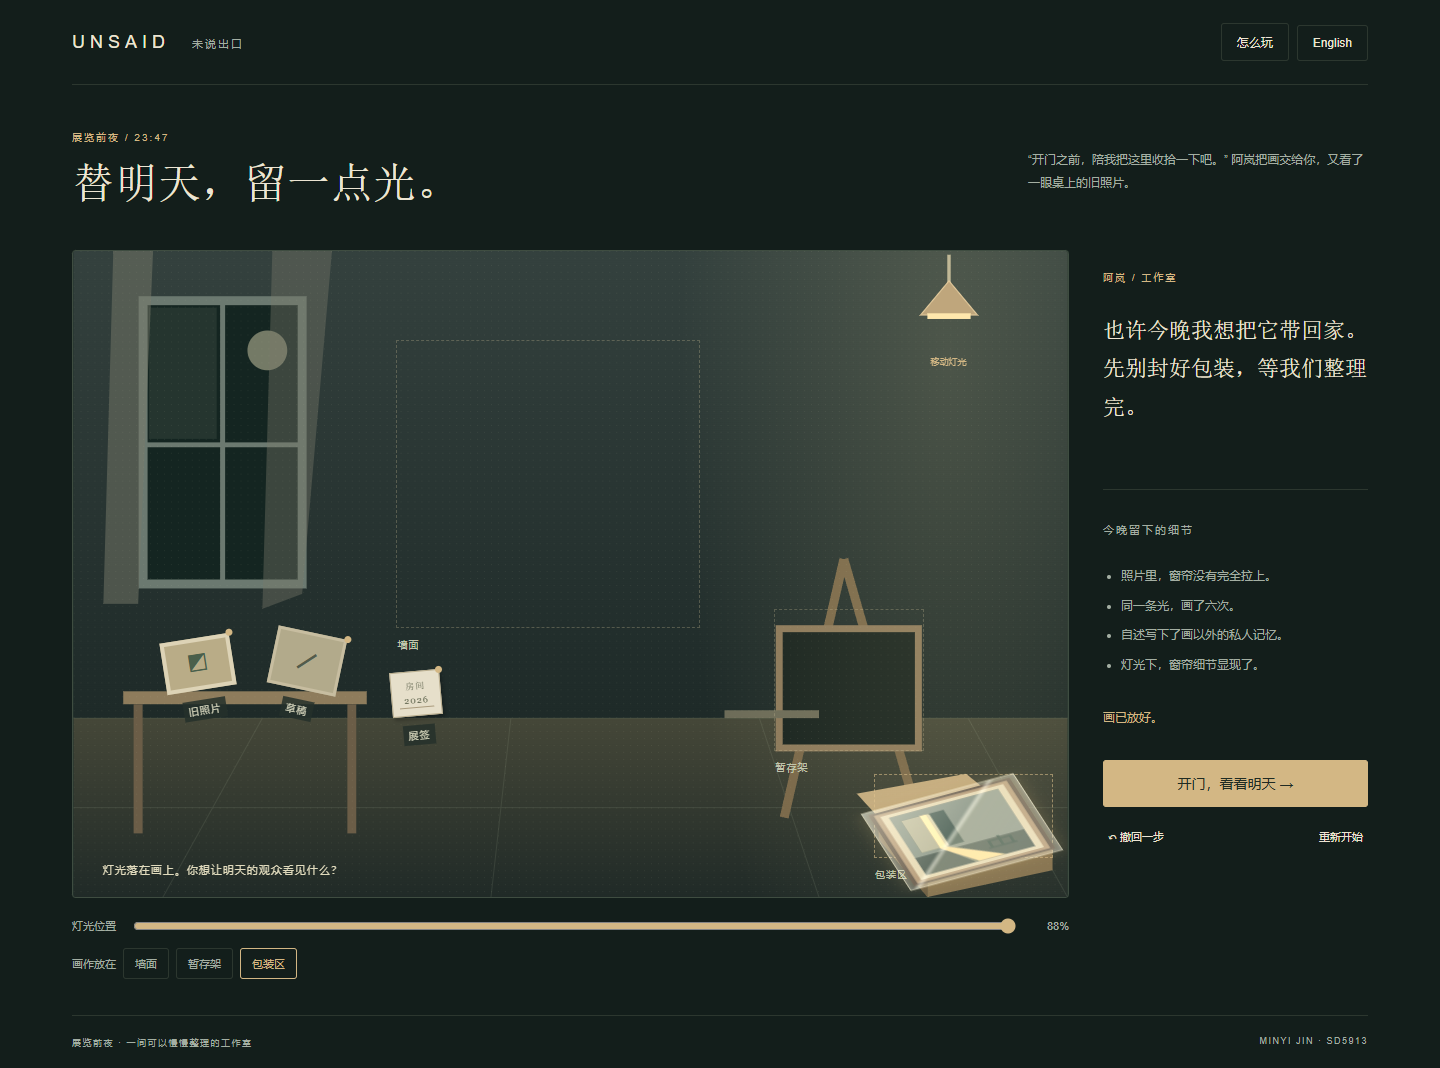
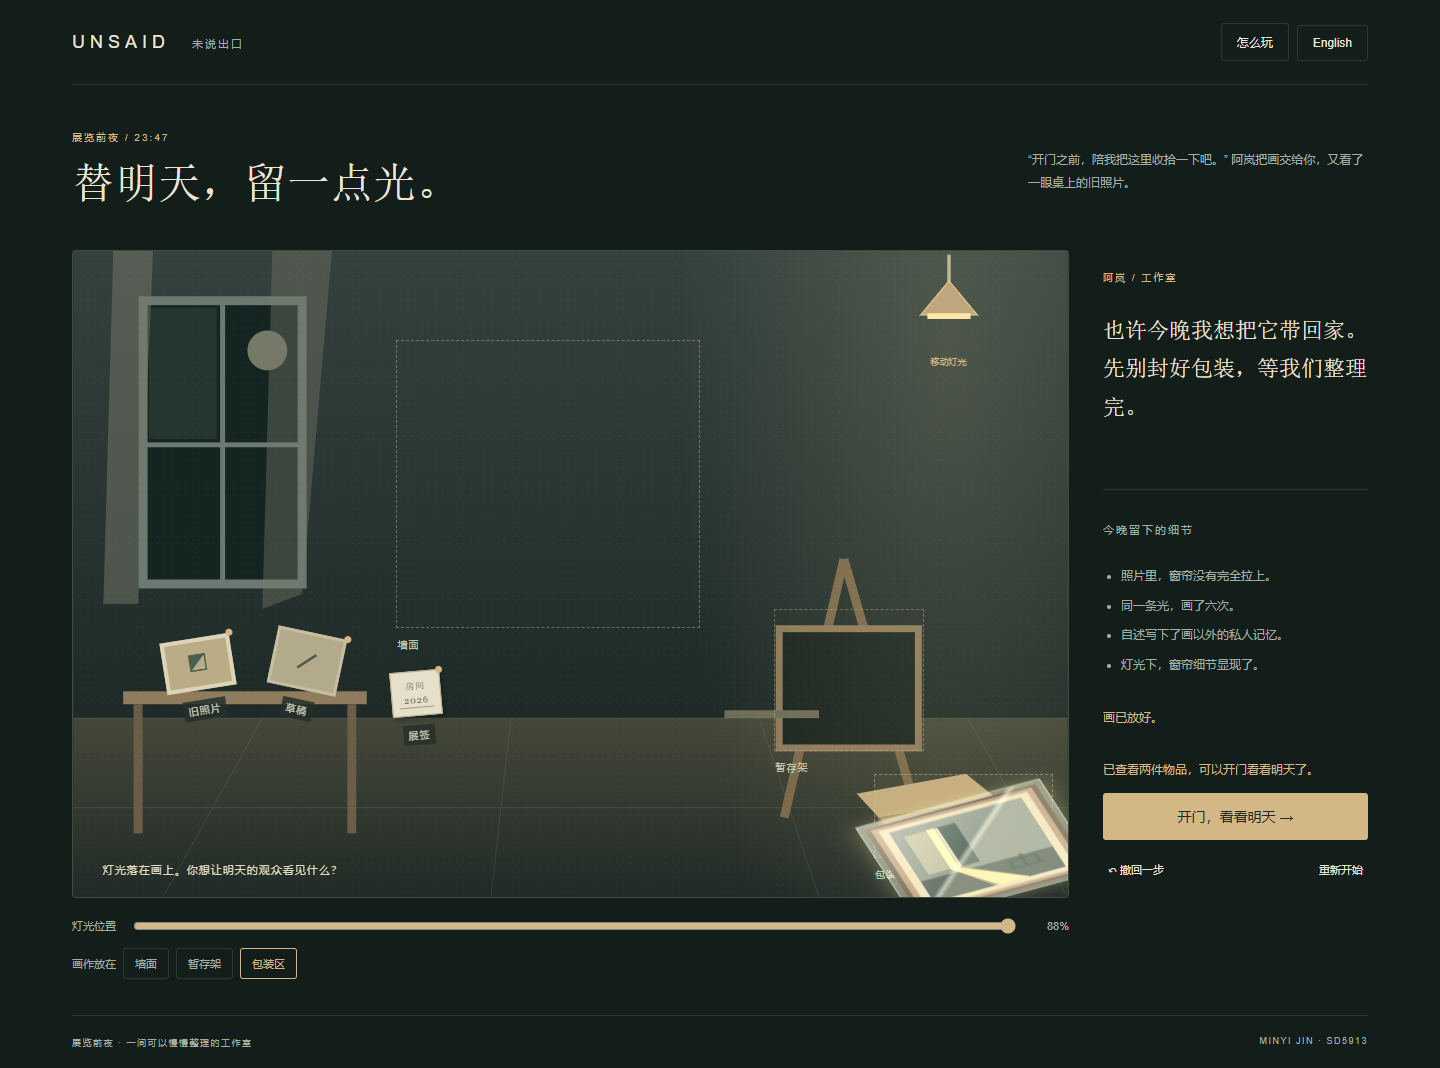
introduce the studio with a guide and visible exploration progress

Changed region(s): [[0.5938, 0.7107, 0.9688, 0.8652]]

diff --git a/app.js b/app.js
@@ -60,7 +60,7 @@ document.querySelectorAll('[data-place]').forEach(b=>b.onclick=()=>setPlace(b.da
 $('language').onclick=()=>{lang=1-lang;status='';render();};$('help').onclick=()=>$('help-dialog').showModal();$('close-help').onclick=$('help-ok').onclick=()=>$('help-dialog').close();$('undo').onclick=()=>{if(!history.length)return;const old=history.pop();state=old.state;voice=old.voice;status=T('Previous arrangement restored.','已恢复上一步的布置。');render();};
 $('restart').onclick=()=>$('reset-dialog').showModal();$('cancel-reset').onclick=()=>$('reset-dialog').close();$('confirm-reset').onclick=()=>{state=initial();history=[];voice='welcome';status=T('The evening begins again.','又回到了展览前夜。');$('reset-dialog').close();render();};
 let sliderStart=null;$('light').addEventListener('input',()=>{if(!sliderStart)sliderStart=snapshot();state.light=Number($('light').value);detectLight();render();});$('light').addEventListener('change',()=>{if(sliderStart){history.push(sliderStart);sliderStart=null;}render();});
-$('finish').onclick=()=>{if($('ending').open)return;renderEnding();$('ending').showModal();};$('continue').onclick=()=>$('ending').close();
+$('finish').onclick=()=>{if($('ending').open)return;if(state.seen.length<2){const remaining=2-state.seen.length;status=T(`Inspect ${remaining} more different object${remaining===1?'':'s'}: photograph, studies or label. Then you can open the doors.`,`再查看 ${remaining} 件不同物品（旧照片、草稿或展签），就可以开门了。`);render();return;}renderEnding();$('ending').showModal();};$('continue').onclick=()=>$('ending').close();
 function beginDrag(e,kind){if(e.button!==0)return;drag={kind,id:e.pointerId,startX:e.clientX,startY:e.clientY,moved:false,before:snapshot(),rect:$('studio').getBoundingClientRect()};e.currentTarget.setPointerCapture(e.pointerId);if(kind==='painting')$('studio').classList.add('dragging-room');}
 function moveDrag(e){if(!drag||e.pointerId!==drag.id)return;if(Math.hypot(e.clientX-drag.startX,e.clientY-drag.startY)>5)drag.moved=true;if(!drag.moved)return;const x=(e.clientX-drag.rect.left)/drag.rect.width*100,y=(e.clientY-drag.rect.top)/drag.rect.height*100;if(drag.kind==='lamp'){state.light=Math.max(12,Math.min(88,x));detectLight();render();}else{$('painting').classList.add('dragging');Object.assign($('painting').style,{left:Math.max(0,Math.min(80,x-10))+'%',top:Math.max(0,Math.min(70,y-12))+'%',width:'20%'});}}
 function endDrag(e,cancel=false){if(!drag||e.pointerId!==drag.id)return;const d=drag;drag=null;$('studio').classList.remove('dragging-room');$('painting').classList.remove('dragging');if(cancel){state=d.before.state;voice=d.before.voice;status=T('Movement cancelled; the previous position was restored.','移动已取消，恢复原来的位置。');render();return;}if(d.kind==='lamp'){if(d.moved)history.push(d.before);render();return;}if(!d.moved){const places=['wall','rack','pack'];setPlace(places[(places.indexOf(state.place)+1)%3]);return;}const x=(e.clientX-d.rect.left)/d.rect.width*100,y=(e.clientY-d.rect.top)/d.rect.height*100;const target=x>=32&&x<=64&&y>=12&&y<=60?'wall':x>=69&&x<=86&&y>=53&&y<=80?'rack':x>=79&&x<=100&&y>=79&&y<=100?'pack':null;if(target){history.push(d.before);state.place=target;voice=target;status=T('Painting placed.','画已放好。');detectLight();}else status=T('Place it inside a marked area. The painting returned safely.','请放到标记区域内，画已回到原处。');render();}
@@ -69,8 +69,13 @@ $('painting').addEventListener('click',e=>{if(e.detail===0){const places=['wall'
 // Additional scene feedback and the final visitor view use the same live arrangement.
 function render(){
  renderBase();
- $('help-copy').textContent=T('Move the lamp over the painting on the wall, rack or packing table. A warm highlight appears when it catches the light.\n\nPick up the photograph and studies; turn them over to find their notes. Open the exhibition label to choose whether visitors will read the private statement.\n\nDrag the painting into a marked area, or use the position buttons. In the packing area it lies under translucent protective paper; move it elsewhere to unpack it. Use Tab and Enter for buttons, arrow keys for the light slider.\n\nOpen the doors whenever you are ready to see your exhibition. You can return to rearrange it or begin again.','把灯移到画的上方：墙面、暂存架和包装区都能照亮，光落到画上时会出现暖色细节。\n\n拿起照片和草稿，翻面查看批注。打开展签，决定观众是否会读到私人自述。\n\n拖动画作到标记区域，或使用位置按钮。画放进包装区时会斜放在保护纸下，移回其他位置即可拆开。按钮支持 Tab / Enter，灯光滑块支持方向键。\n\n准备好就可以开门看看明天，没有查看数量要求。结局后可以回来重新布置，也可以从头再玩。');
+ $('help-copy').textContent=T('Help Alex arrange the studio before the exhibition opens.\n\n1. Look closely: click at least TWO different objects — photograph, studies or label. You can turn each over.\n\n2. Find the light: drag the lamp or use its slider to illuminate the painting in any of its three positions.\n\n3. Arrange the exhibition: drag the painting to the wall, rack or packing area, or use the position buttons. Open the label to keep the private statement on display or set it aside.\n\n4. Open the doors: after inspecting two objects, see the morning scene your arrangement creates. Return to rearrange it or start again.\n\nUndo is available. Buttons support Tab and Enter; the slider supports arrow keys. You can reopen this guide with “How to play”.','展览就要开幕，陪阿岚一起把工作室整理好。\n\n1. 先看看：点击旧照片、草稿、展签中的至少两件不同物品。拿起后还可以翻面。\n\n2. 找到光：拖动灯，或使用灯光滑块。画放在三个位置都可以被照亮。\n\n3. 布置房间：拖动画作到墙面、暂存架或包装区，也可以用位置按钮。打开展签，选择保留还是收起私人自述。\n\n4. 开门看明天：查看两件物品后，开门进入与你的布置对应的结局。可以回来调整，也可以从头再玩。\n\n随时可以撤回。按钮支持 Tab / Enter，滑块支持方向键；右上角“怎么玩”可以再次打开这份引导。');
  $('finish').textContent=T('Open the doors →','开门，看看明天 →');
+ const inspected=Math.min(state.seen.length,2);
+ $('readiness').textContent=inspected<2?T(`Before opening: inspect two different objects (${inspected}/2).`,`开门前，先查看两件不同物品（${inspected}/2）。`):T('Two objects inspected. Your exhibition is ready to open.','已查看两件物品，可以开门看看明天了。');
+ $('finish').setAttribute('aria-disabled',String(inspected<2));
+ $('help-language').textContent=T('中文','English');
+ $('help-ok').textContent=T('Start exploring','开始整理');
  document.querySelector('.mini-label').textContent=T('ROOM\n2026','房间\n2026');
  document.querySelector('.label').setAttribute('title',state.label?T('Visitors will read Alex’s personal statement.','观众会读到阿岚的私人自述。'):T('The statement is set aside; visitors will see the artwork alone.','私人自述已收起，观众只看作品。'));
  if(currentObject==='label')$('object-copy').textContent+=(state.label?T('\n\nDISPLAYED: visitors can read this personal history beside the painting.','\n\n当前：公开。观众会在画旁读到这段私人经历。'):T('\n\nSET ASIDE: visitors will see the painting without the personal statement.','\n\n当前：收起。观众只会看见画，不会读到这段私人经历。'));
@@ -96,3 +101,5 @@ renderEnding=function(){
 };
 $('play-again').onclick=()=>{$('ending').close();state=initial();history=[];voice='welcome';status='';render();};
 render();
+$('help-language').onclick=()=>{lang=1-lang;status='';render();};
+$('help-dialog').showModal();

diff --git a/index.html b/index.html
@@ -1,5 +1,5 @@
 <!doctype html>
-<html lang="zh-CN"><head><meta charset="utf-8"><meta name="viewport" content="width=device-width,initial-scale=1"><title>Unsaid · 未说出口</title><link rel="stylesheet" href="style.css?v=20261025b"></head><body>
+<html lang="zh-CN"><head><meta charset="utf-8"><meta name="viewport" content="width=device-width,initial-scale=1"><title>Unsaid · 未说出口</title><link rel="stylesheet" href="style.css?v=20261025c"></head><body>
 <header><a href="./">UNSAID <span>未说出口</span></a><div><button id="help">怎么玩</button><button id="language">English</button></div></header>
 <main><div class="heading"><div><p class="eyebrow" id="chapter"></p><h1 id="title"></h1></div><p id="intro"></p></div>
 <div class="layout"><section class="stage-column"><div id="studio" aria-label="Interactive studio">
@@ -18,10 +18,10 @@
 <div class="stage-caption" id="stage-caption"></div></div>
 <div class="light-control"><label for="light" id="light-label"></label><input id="light" type="range" min="12" max="88" value="30"><span id="light-value"></span></div>
 <div class="placement"><span id="placement-label"></span><button data-place="wall" class="place-option"></button><button data-place="rack" class="place-option"></button><button data-place="pack" class="place-option"></button></div></section>
-<aside><p class="eyebrow" id="voice-label"></p><p id="voice" aria-live="polite"></p><div class="divider"></div><h2 id="notes-title"></h2><ul id="notes"></ul><p id="status" role="status"></p><button id="finish" class="primary"></button><div class="small-actions"><button id="undo"></button><button id="restart"></button></div></aside></div>
+<aside><p class="eyebrow" id="voice-label"></p><p id="voice" aria-live="polite"></p><div class="divider"></div><h2 id="notes-title"></h2><ul id="notes"></ul><p id="status" role="status"></p><p id="readiness" aria-live="polite"></p><button id="finish" class="primary" aria-describedby="readiness"></button><div class="small-actions"><button id="undo"></button><button id="restart"></button></div></aside></div>
 <footer><span id="footer-note"></span><span>MINYI JIN · SD5913</span></footer></main>
 <dialog id="inspect"><button class="close" id="close-inspect" aria-label="Close">×</button><p class="eyebrow" id="object-number"></p><div id="object-art"></div><h2 id="object-title"></h2><p id="object-copy"></p><div class="dialog-actions"><button id="flip"></button><button id="label-toggle" hidden></button><button id="put-back" class="primary"></button></div></dialog>
 <dialog id="ending"><p class="eyebrow" id="ending-eyebrow"></p><h2 id="ending-title"></h2><div id="final-scene" aria-label="Final exhibition"></div><p id="ending-copy"></p><p id="visitor-response"></p><div id="ending-summary"></div><div class="dialog-actions"><button id="continue"></button><button id="play-again" class="primary"></button></div></dialog>
-<dialog id="help-dialog"><button class="close" id="close-help" aria-label="Close">×</button><h2 id="help-title"></h2><p id="help-copy"></p><button id="help-ok" class="primary"></button></dialog>
+<dialog id="help-dialog" aria-labelledby="help-title"><button class="close" id="close-help" aria-label="Close">×</button><h2 id="help-title"></h2><p id="help-copy"></p><div class="dialog-actions"><button id="help-ok" class="primary" autofocus></button><button id="help-language"></button></div></dialog>
 <dialog id="reset-dialog"><h2 id="reset-title"></h2><p id="reset-copy"></p><div class="dialog-actions"><button id="cancel-reset"></button><button id="confirm-reset" class="primary"></button></div></dialog>
-<script src="app.js?v=20261025b"></script></body></html>
+<script src="app.js?v=20261025c"></script></body></html>

diff --git a/style.css b/style.css
@@ -10,3 +10,4 @@
 #painting[data-location=pack].illuminated{filter:drop-shadow(0 0 9px #f8d58d80) brightness(1.12)}
 #painting.dragging{transform:none!important}#painting.dragging::after{display:none}
 .final-painting .final-wrap{position:absolute;inset:-4%;width:auto;height:auto;transform:none;background:linear-gradient(90deg,transparent 43%,#c4ac7ca8 43%,#c4ac7ca8 57%,transparent 57%);border:0;z-index:3}
+#readiness{font-size:12px;line-height:1.7;color:var(--gold);margin:0 0 12px}.primary[aria-disabled=true]{background:#89917b;color:#18241d;border-color:#89917b}#help-dialog{max-height:92dvh}#help-copy{font-size:13px;line-height:1.7}

diff --git a/README.md b/README.md
@@ -22,11 +22,11 @@ The first version used branching dialogue. Following the author's feedback that 
 - Pick up the photograph, study sheet and exhibition label. Turn each over to read the reverse.
 - Drag the painting to the wall, holding rack or packing area. The visible placement, selected control and character response change together. Position buttons below the scene offer the same action; clicking the painting cycles through positions.
 - Take the statement off the wall or put it back. Its location in the room changes.
-- Open the doors whenever you are ready; no minimum object count is required. An illustrated morning epilogue reflects your actual arrangement: sharing the statement, exhibiting the painting alone, leaving it on the rack, or taking it home. Each has distinct closing text. Revise the exhibition or begin a new evening using separate buttons.
+- A bilingual guide opens when the page loads and can be reopened with “How to play”. Inspect at least two different objects before opening the doors; a visible counter shows progress. An illustrated morning epilogue reflects your actual arrangement: sharing the statement, exhibiting the painting alone, leaving it on the rack, or taking it home. Each has distinct closing text. Revise the exhibition or begin a new evening using separate buttons.
 - In the packing area, the painting lies diagonally inside the box under translucent protective paper. Moving it back to the wall or rack removes the paper. Light can still reach the visible painted detail.
 - Undo restores the previous action. Start over asks for confirmation. English/Chinese switching preserves the arrangement.
 
-拖灯或使用滑块照亮画中细节；拿起三件物品并翻面；将画放到墙面、暂存架或包装区；决定展签是否公开。随时可以开门，不要求先查看多少物件。包装区里的画会斜放在半透明保护纸下，移回墙面或暂存架即可拆开。可以回到房间继续调整，也可撤回或确认重启。语言切换保留状态。
+进入页面先弹出可切换中英文的引导，右上角可再次打开。查看两件不同物品后可以开门，按钮上方显示进度。拖灯或使用滑块照亮画中细节；拿起物品并翻面；安排画作位置，决定展签是否公开。包装区里的画斜放在半透明保护纸下，移回墙面或暂存架即可拆开。可以回到房间继续调整，也可撤回或确认重启。语言切换保留状态。
 
 ## Run locally / 本地运行
 

diff --git a/PROCESS.md b/PROCESS.md
@@ -87,3 +87,13 @@ For packing, replace the upright painting with a diagonal, flattened placement i
 作者截图显示“开门”被查看数量条件拦住，且包装区画作仍直立。移除查看两件物品的门槛，任何布置都可以进入结局。包装区改为画作斜放、压低透视并覆半透明保护纸；画本身保持不透明。移回墙面或暂存架即可拆开，带回家的结局在同一包装上增加封口胶带。
 
 Verification: browser checks now open an ending from a fresh session, return to editing, exercise all endings, check packed geometry and non-intercepting paper, and drag the packed painting back out. A packing screenshot and revised ending screenshot were captured and inspected. Versioned CSS/JS URLs help existing visitors receive the changed behavior.
+
+### Onboarding revision / 初次进入引导
+
+The author reconsidered the opening condition and requested restoring two inspected objects, explaining that the real problem was discoverability of “How to play”. Restore the condition with explicit progress (0/2, 1/2, ready) beside the action. Repeated inspection of one object counts only once. Opening early gives a concrete message naming the objects and how many remain.
+
+The bilingual guide now opens on page load, includes the four-step flow and the two-object condition, and supports switching language inside the dialog. It can be dismissed with its start button, close control or Escape and reopened from the header. Restarting the arrangement does not interrupt the player with another automatic guide. Packing and all-position lighting remain unchanged.
+
+作者重新确认保留查看两件物品的流程，指出主要问题是不会主动打开“怎么玩”。因此恢复条件，并显示 0/2、1/2 与可开门状态。重复查看同一物品不累计。首次进入主动弹出双语引导，明确流程和开门条件，关闭后仍可从右上角再次打开；重启布置不重复强制弹出。
+
+Browser verification covered automatic guide display, language switching inside it, dismissal, blocked opening at zero/one distinct object, repeated inspection not increasing the count, and successful endings after two. Existing drag, packing, lighting, undo, keyboard and mobile touch checks also passed. These changes follow author feedback, not a newly claimed classmate session.
